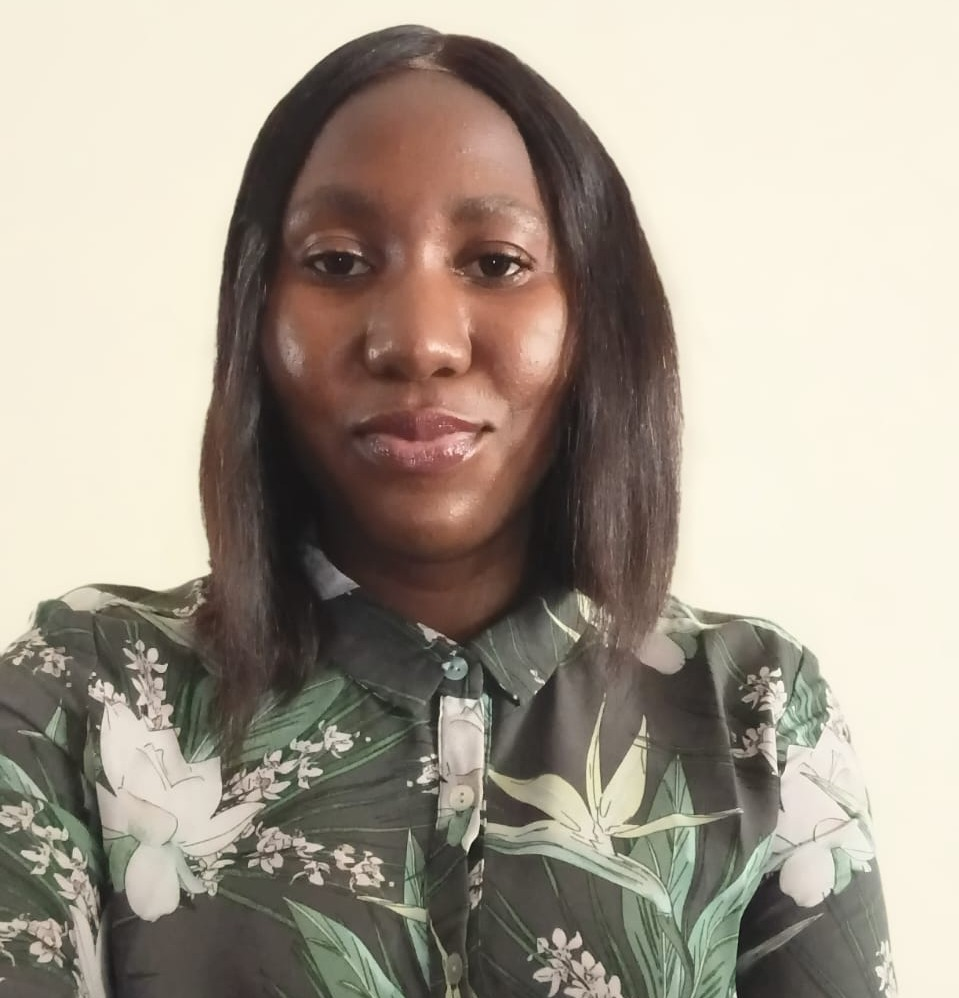
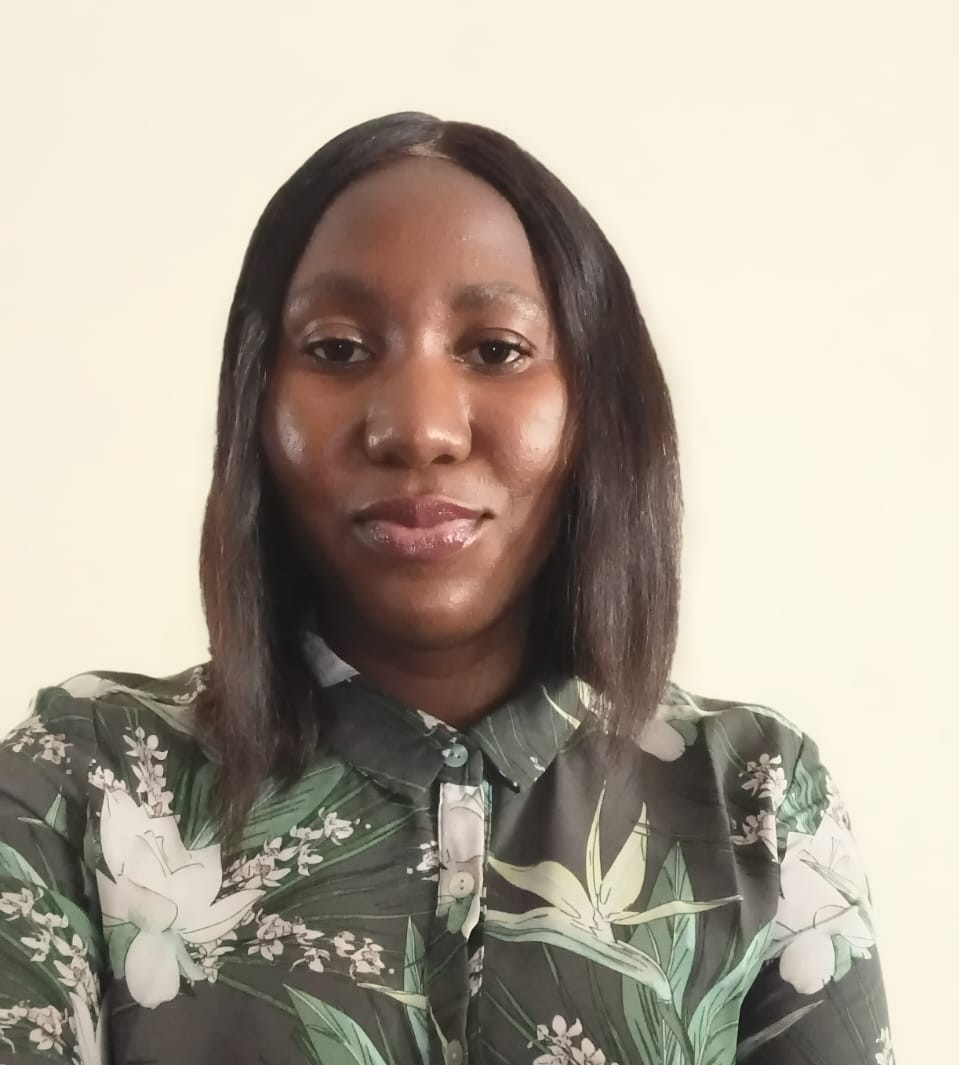
update: topagent section

diff --git a/app/routes/home.tsx b/app/routes/home.tsx
@@ -148,35 +148,6 @@ export default function Home() {
         </div>
       </section>
 
-      {/* For Rent Section */}
-      <section className="py-16 px-4 bg-[#F8FAFA]">
-        <div className="max-w-7xl mx-auto">
-          <div className="flex items-end justify-between mb-10">
-            <div>
-              <p className="text-[#F57C00] font-semibold text-sm uppercase tracking-wider mb-2">
-                Rent a Home
-              </p>
-              <h2 className="text-3xl font-bold text-[#1B2A4A]">
-                Properties For Rent
-              </h2>
-              <p className="text-[#8A9A8A] mt-2">
-                Monthly and yearly lease options available
-              </p>
-            </div>
-            <Link
-              to="/properties"
-              className="hidden md:flex items-center gap-1 text-[#F57C00] hover:text-[#E06B00] font-semibold text-sm border-b border-[#F57C00] pb-0.5 transition-colors"
-            >
-              View All Rentals →
-            </Link>
-          </div>
-          <div className="grid grid-cols-1 md:grid-cols-2 lg:grid-cols-3 gap-6">
-            {forRent.map((property) => (
-              <PropertyCard key={property.id} property={property} />
-            ))}
-          </div>
-        </div>
-      </section>
 
       {/* Why Choose Us */}
       <section className="py-16 px-4 bg-[#1B2A4A] text-white">
@@ -235,33 +206,42 @@ export default function Home() {
         </div>
       </section>
 
-      {/* Top Agents */}
-      <section className="py-16 px-4 bg-white">
-        <div className="max-w-7xl mx-auto">
-          <div className="flex items-end justify-between mb-10">
-            <div>
-              <p className="text-[#F57C00] font-semibold text-sm uppercase tracking-wider mb-2">
-                Our Team
-              </p>
-              <h2 className="text-3xl font-bold text-[#1B2A4A]">Top Agents</h2>
-              <p className="text-[#8A9A8A] mt-2">
-                Licensed professionals with deep Abuja market knowledge
-              </p>
-            </div>
-            <Link
-              to="/agents"
-              className="hidden md:flex items-center gap-1 text-[#F57C00] hover:text-[#E06B00] font-semibold text-sm border-b border-[#F57C00] pb-0.5 transition-colors"
-            >
-              Meet All Agents →
-            </Link>
-          </div>
-          <div className="grid grid-cols-1 md:grid-cols-2 lg:grid-cols-4 gap-6">
-            {topAgents.map((agent) => (
-              <AgentCard key={agent.id} agent={agent} />
-            ))}
-          </div>
-        </div>
-      </section>
+{/* Top Agents */}
+<section className="py-16 px-4 bg-white">
+  <div className="max-w-7xl mx-auto">
+    <div className="flex items-end justify-between mb-10">
+      <div>
+        <p className="text-[#F57C00] font-semibold text-sm uppercase tracking-wider mb-2">
+          Our Team
+        </p>
+        <h2 className="text-3xl font-bold text-[#1B2A4A]">Top Agents</h2>
+        <p className="text-[#8A9A8A] mt-2">
+          Licensed professionals with deep Abuja market knowledge
+        </p>
+      </div>
+      <Link
+        to="/agents"
+        className="flex items-center gap-1 text-[#F57C00] hover:text-[#E06B00] font-semibold text-sm border-b border-[#F57C00] pb-0.5 transition-colors whitespace-nowrap"
+      >
+        Meet All Agents →
+      </Link>
+    </div>
+    <div className="grid grid-cols-1 sm:grid-cols-2 lg:grid-cols-4 gap-6">
+      {topAgents.map((agent) => (
+        <AgentCard key={agent.id} agent={agent} />
+      ))}
+    </div>
+    {/* Mobile "View All" Button - Shows below the agents on mobile */}
+    <div className="mt-8 text-center md:hidden">
+      <Link
+        to="/agents"
+        className="inline-flex items-center gap-2 bg-[#F57C00] hover:bg-[#E06B00] text-white font-semibold px-6 py-3 rounded-xl transition-colors"
+      >
+        View All Agents →
+      </Link>
+    </div>
+  </div>
+</section>
 
       {/* CTA Banner */}
       <section className="py-16 px-4 bg-[#F57C00]">

diff --git a/app/data/agents.ts b/app/data/agents.ts
@@ -4,6 +4,7 @@ import agentEmma from '../static/topagents/Emma.jpeg';
 import agentMercy from '../static/topagents/mercy.jpeg';
 import zertekEbenezer from '../static/topagents/MD.jpeg';
 import agenttemmi from '../static/topagents/temi.jpeg';
+import agentNogozi from '../static/topagents/Nogozi.jpeg';
 
 export type Agent = {
   id: number;
@@ -59,21 +60,9 @@ export const agents: Agent[] = [
     email: '[email redacted]',
     image: agenttemmi,
   },
-  {
+
+    {
     id: 4,
-    name: 'Engr. Joseph Emmanuel J',
-    title: 'Property Consultant',
-    initials: 'JE',
-    listings: 31,
-    deals: 25,
-    years: 5,
-    specialization: 'Guzape, Lugbe, Apo Hilltop',
-    phone: '+234 8143963693',
-    email: '[email redacted]',
-    image: agentEmma,
-  },
-  {
-    id: 5,
     name: 'Mercy Dogara',
     title: 'Luxury Specialist',
     initials: 'MD',
@@ -85,17 +74,33 @@ export const agents: Agent[] = [
     email: '[email redacted]',
     image: agentMercy,
   },
+  
+  {
+    id: 5,
+    name: 'Engr. Joseph Emmanuel J',
+    title: 'Property Consultant',
+    initials: 'JE',
+    listings: 31,
+    deals: 25,
+    years: 5,
+    specialization: 'Guzape, Lugbe, Apo Hilltop',
+    phone: '+234 8143963693',
+    email: '[email redacted]',
+    image: agentEmma,
+  },
+
   {
     id: 6,
-    name: 'Chukwudi Eze',
+    name: 'Ngozi Okere',
     title: 'Rental Manager',
-    initials: 'CE',
+    initials: 'NO',
     listings: 29,
     deals: 22,
     years: 4,
     specialization: 'Jabi & Life Camp',
-    phone: '+234 804 567 8901',
-    email: '[email redacted]',
+    phone: '+234 ',
+    email: '[email redacted]',
+    image: agentNogozi,
     // No image — will show initials
   },
 ];